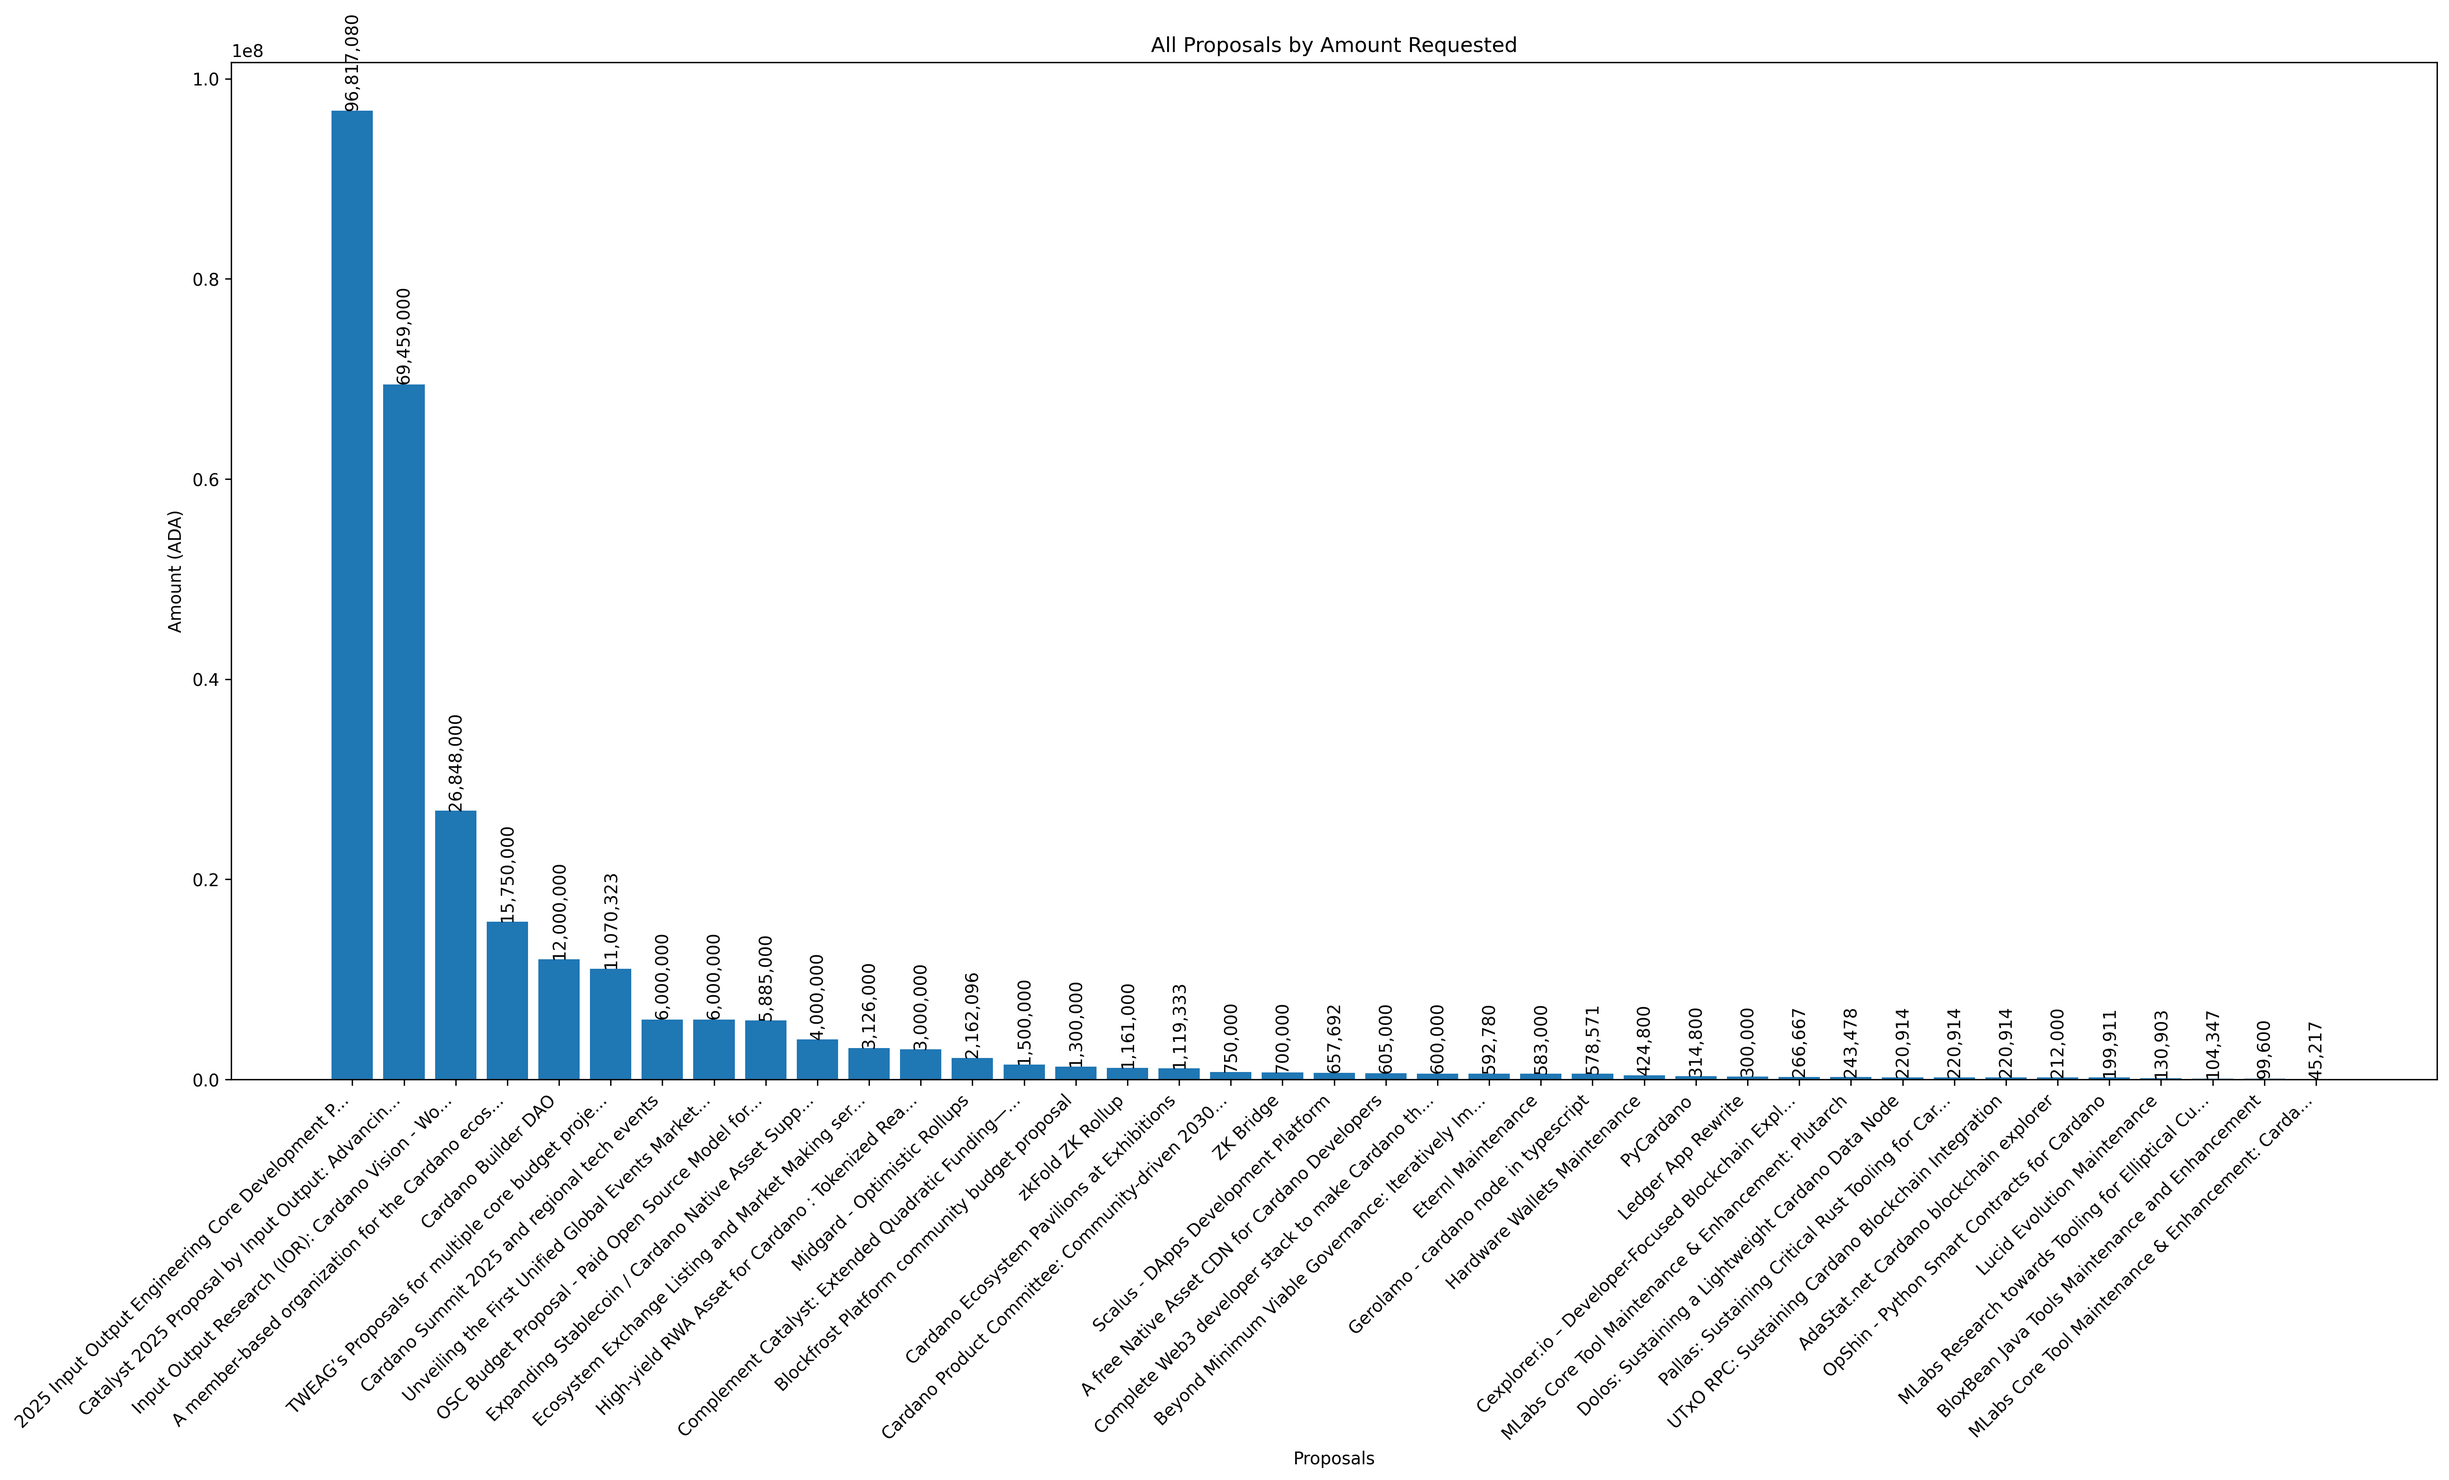
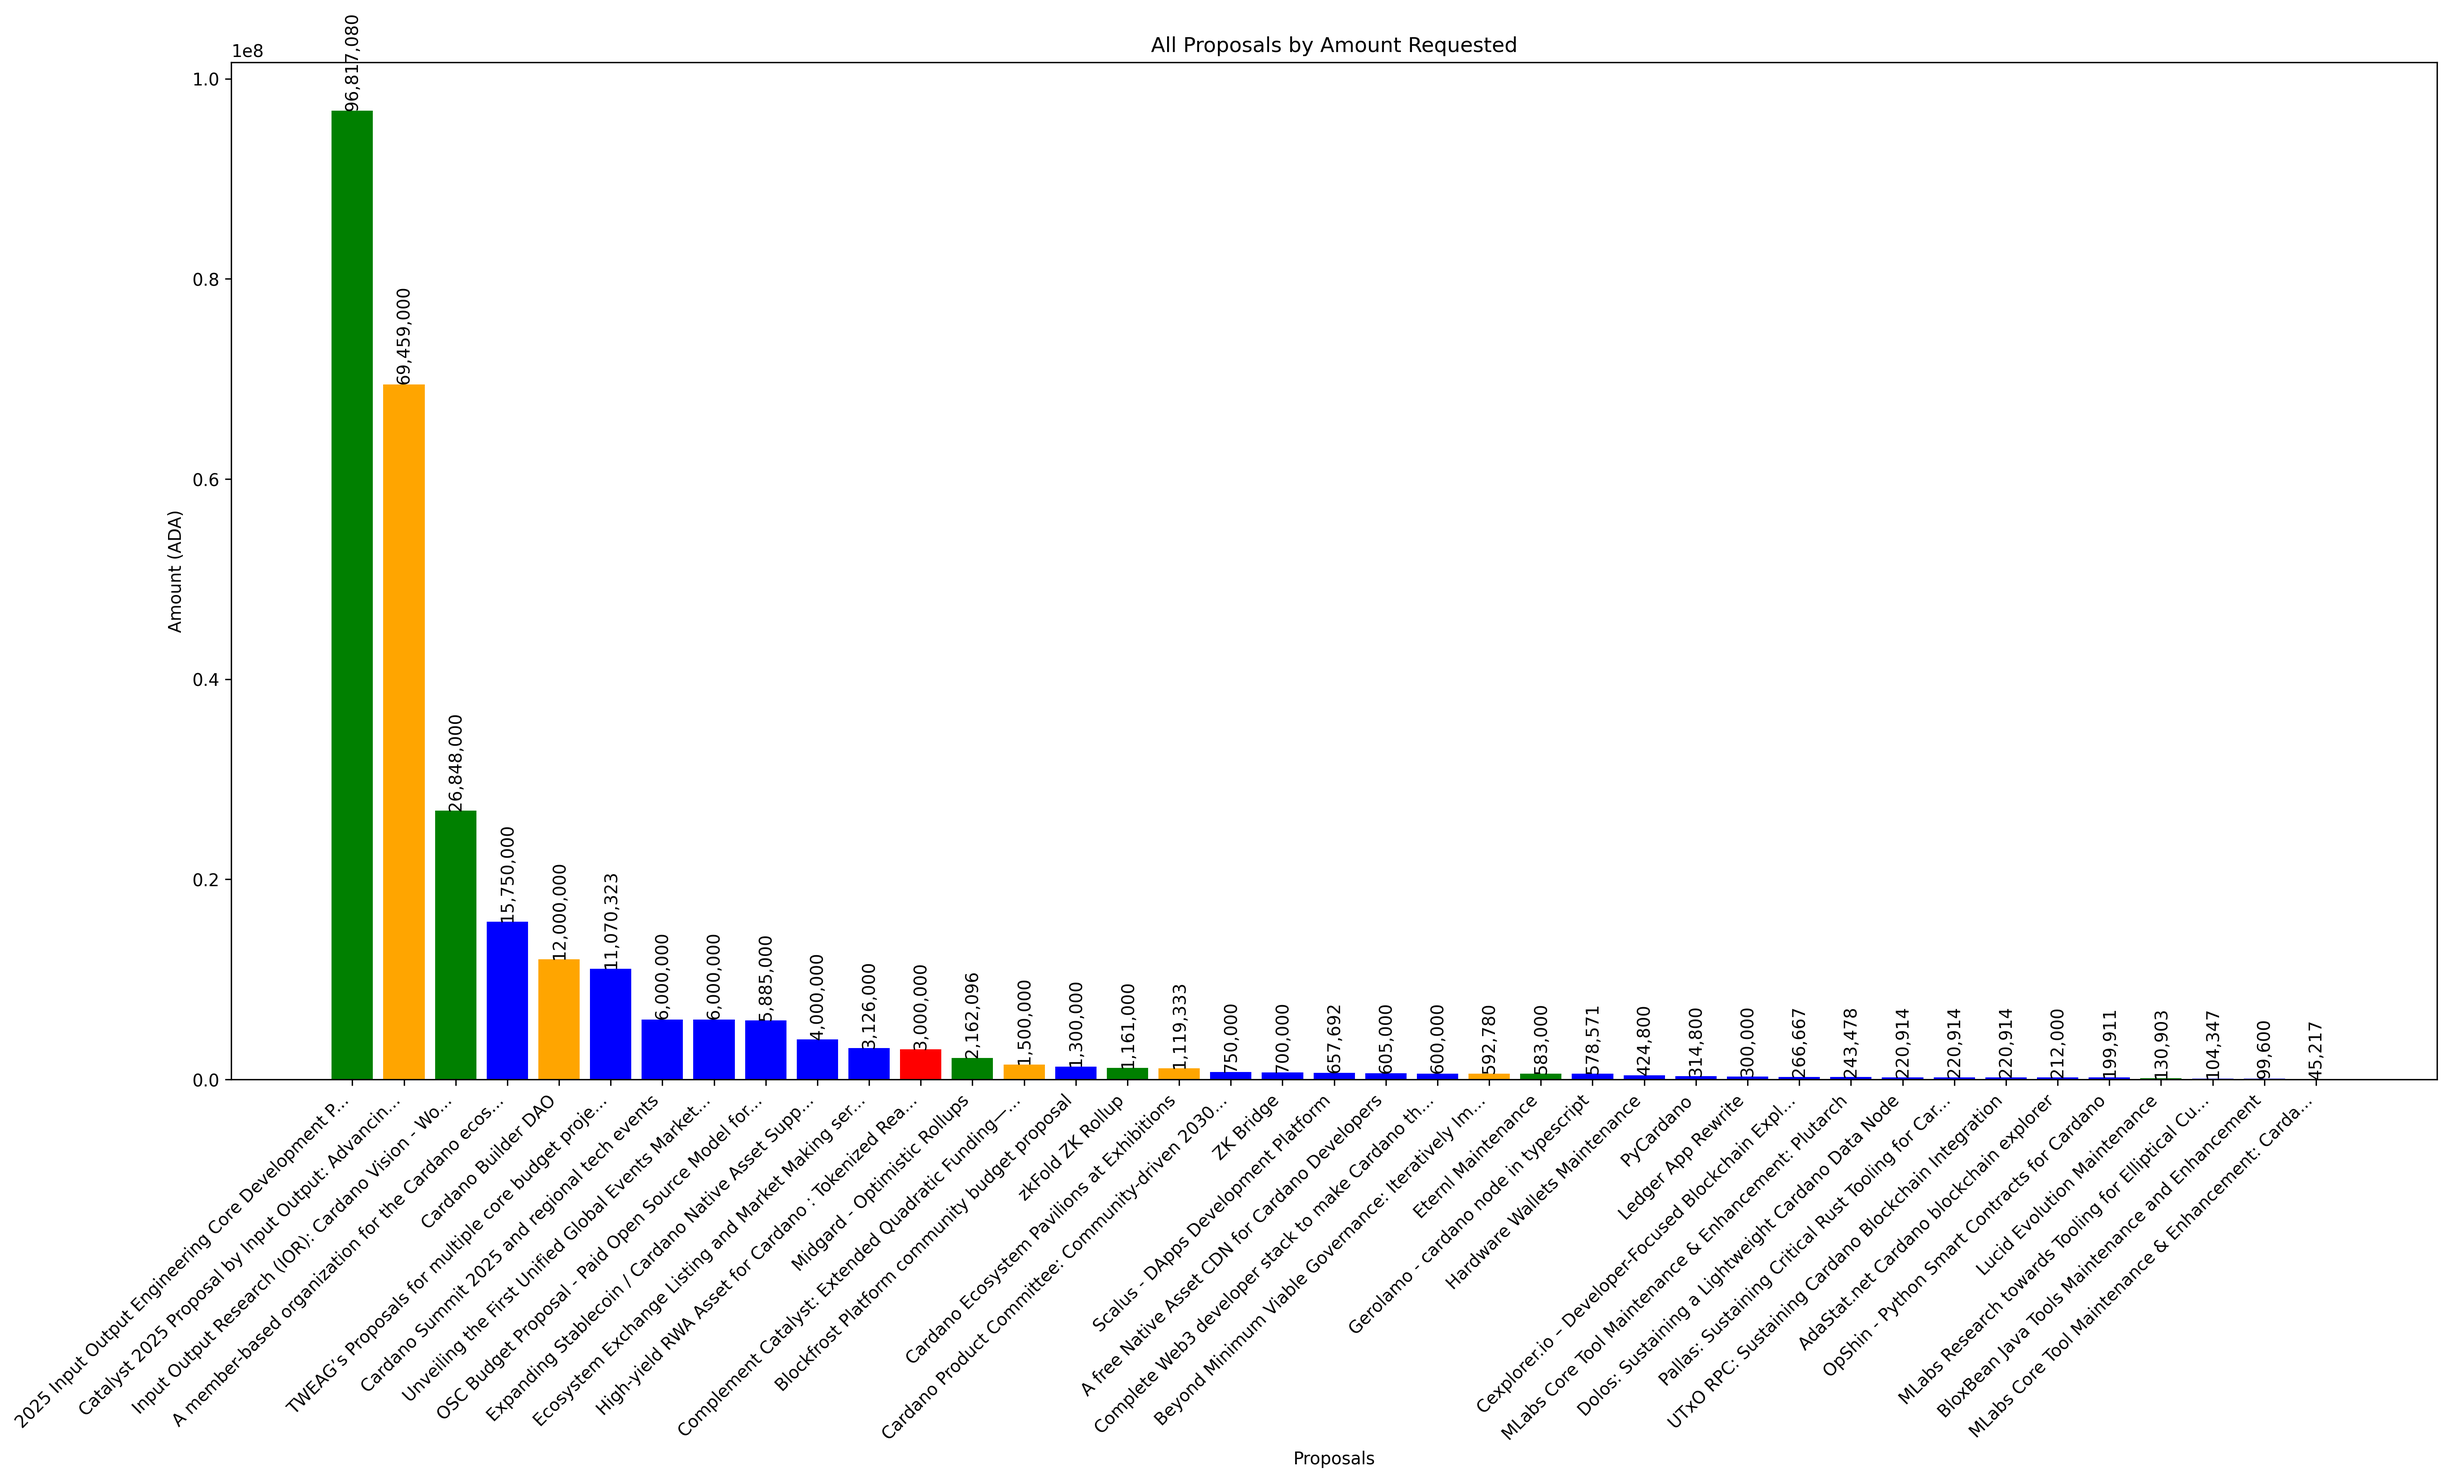
support more opinion colors

Changed region(s): [[0.1247, 0.0625, 0.5302, 0.75], [0.6237, 0.7188, 0.6549, 0.75], [0.5614, 0.7188, 0.5925, 0.75]]

diff --git a/main.py b/main.py
@@ -3,6 +3,14 @@ import matplotlib.pyplot as plt
 import statistics
 import os
 
+# Define color mapping for different opinions
+OPINION_COLORS = {
+    'good': 'green',
+    'bad': 'red',
+    'skeptical': 'orange',
+    'neutral': 'blue'  # default color for proposals without an opinion
+}
+
 def create_bar_plot(proposals, title, filename, figsize=(20, 12)):
     plt.figure(figsize=figsize)
     
@@ -13,14 +21,18 @@ def create_bar_plot(proposals, title, filename, figsize=(20, 12)):
     # Extract data for plotting and truncate long labels
     amounts = [proposal['amount'] for proposal in proposals]
     names = []
+    colors = []
     for proposal in proposals:
         name = proposal['proposal']
         if len(name) > median_length:
             name = name[:median_length-3] + "..."
         names.append(name)
+        # Get color from mapping, default to neutral if no opinion
+        opinion = proposal.get('opinion', 'neutral')
+        colors.append(OPINION_COLORS.get(opinion, OPINION_COLORS['neutral']))
     
-    # Create bar plot
-    plt.bar(range(len(amounts)), amounts)
+    # Create bar plot with custom colors
+    plt.bar(range(len(amounts)), amounts, color=colors)
     
     # Customize the plot
     plt.title(title)
@@ -71,9 +83,9 @@ def main():
     bottom_half = sorted_proposals[mid_point:]
     
     # add asserts to ensure this makes sense
-    assert len(top_half) + len(bottom_half) == len(proposals)
+    assert len(top_half) + len(bottom_half) == len(proposals), "Top half and bottom half should add up to the total number of proposals"
     # all elements of proposals is either in top or bottom (not using sets) using lambda
-    assert all(lambda x: x in top_half or x in bottom_half for x in proposals)
+    assert all(lambda x: x in top_half or x in bottom_half for x in proposals), "Each proposal should be in either top or bottom"
     
     # Create three separate plots
     create_bar_plot(sorted_proposals, 'All Proposals by Amount Requested', os.path.join(charts_dir, 'all_proposals.png'))
